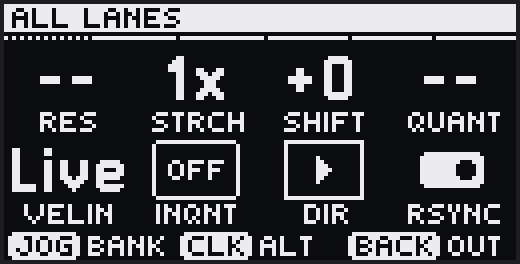
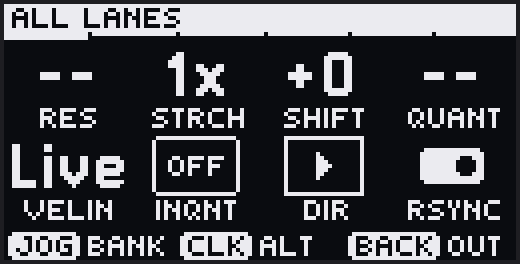
davebox ui: the page bar takes the param-pages shape and meets the header
Three of Josh's calls in one pass, all from looking at the renders.

1. THE CURRENT SEGMENT IS DOUBLE HEIGHT, param-pages' drawBankBar idiom
   ("can we do the bank indicator row same as page param"). It replaces a BLINK
   — the active segment used to alternate solid <-> dotted at ~1.3 Hz, motion
   spent on a value that is not changing. The current page is a fact, and a fact
   does not need to flash to be read; height says it statically and the row stops
   competing with the things on the page that actually move.

2. THE DARK ROW ABOVE THE BAR IS GONE, so the bar meets the band. That row was
   documented here as LOAD-BEARING — "the header is ALWAYS inverted, so without
   this row the page bar butts the filled band and the two merge into one thick
   smudge" — and that was true OF THE OLD BAR, a row of equal-height segments,
   which does read as the band getting thicker. It is not true of this one: the
   current segment is 2px and the rest 1px, so the bar has a shape of its own and
   reads as an indicator under the band. Upstream arrives at the same place from
   the other direction (BAR_Y === HEADER_H, "no separator row").

3. THE GRID MOVES UP ONE ROW. Widget rows, label strips and their gutters all
   shift; the footer stays on the last scanline, so there are now TWO clear rows
   above it instead of one — which is the separation upstream relies on in place
   of a rule, and part of why ours could be retired.
[…]

diff --git a/docs/UI_LANGUAGE.md b/docs/UI_LANGUAGE.md
@@ -37,11 +37,14 @@ arrives as a *transition* and the whole page animates itself in from values nobo
 `observeLanded` refuses that, and it can only do it from the **raw** value — every token a widget
 animates is derived, and every derivation is total.
 
-⚠⚠ **AN OFFLINE RENDER IS NOT REPRODUCIBLE UNLESS YOU FREEZE THE CLOCK.** `drawKitPageBar` blinks
-its active segment off `Date.now()/375`, so the same page renders two different pictures depending
-on when you ran it — and a before/after PNG diff taken without pinning it is pure noise. It has
-already reported eight manual screens as "changed" by a style port that changed none of them. Use
-`freezeClock()` from `render_fb.mjs`. Anything built to that shape can be restyled once
+⚠⚠ **AN OFFLINE RENDER IS NOT REPRODUCIBLE UNLESS YOU FREEZE THE CLOCK.** A time-dependent
+renderer makes the same page produce two different pictures depending on when you ran it, and a
+before/after PNG diff taken without pinning it is pure noise — that reported eight manual screens as
+"changed" by a style port that changed none of them. Use `freezeClock()` from `render_fb.mjs`.
+⭑ `drawKitPageBar` was the worst offender and no longer blinks (2026-08-30 — the current segment is
+double height instead), so the remaining reader is the latch frame. Keep freezing: the rule is
+about the class, and a renderer that starts reading the clock again must not silently rot the
+manual. Anything built to that shape can be restyled once
 and change everywhere. Anything that draws directly has to be found and edited by hand.
 
 Screens absorbed from the host get rebuilt against these primitives from day one. Structurally
